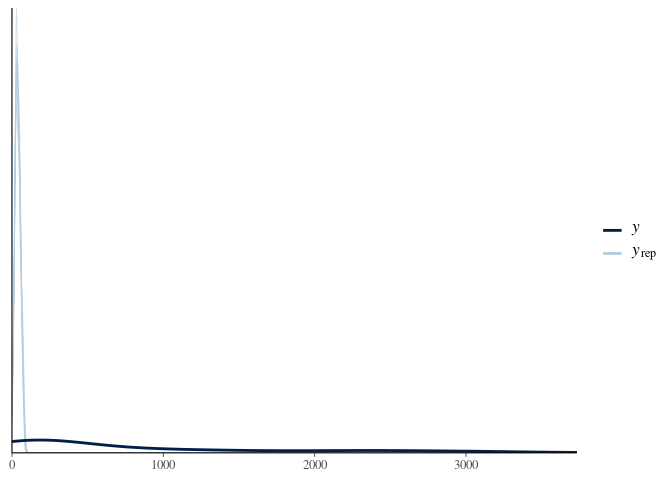
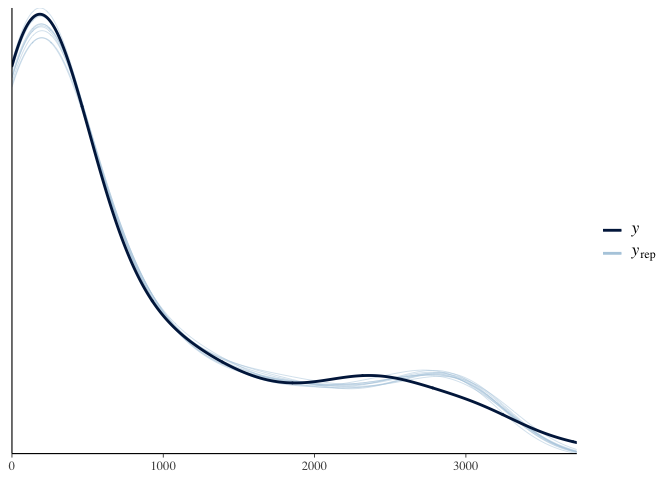
ensure vector of point estimates gets named

diff --git a/README.md b/README.md
@@ -24,10 +24,8 @@ devtools::install_github("epiforecasts/idbrms")
 
 ## Example
 
-  - Load `idbrms`, `brms`, `data.table` (used for manipulating data),
-    and `ggplot2` for visualisation.
-
-<!-- end list -->
+- Load `idbrms`, `brms`, `data.table` (used for manipulating data), and
+  `ggplot2` for visualisation.
 
 ``` r
 library(idbrms)
@@ -36,15 +34,13 @@ library(data.table)
 library(ggplot2)
 ```
 
-  - Define simulated data containing cases of some infectious disease
-    over time in a single region (with an initial growth of 20% a day
-    followed by a decline of 10% a day). We then assume that deaths are
-    a convolution of cases using a log normal distribution with a log
-    mean of 1.6 (standard deviation 0.2) and a log standard deviation of
-    0.8 (standard deviation 0.2), and are then scaled by a fraction
-    (here 0.4 (standard deviation 0.025)).
-
-<!-- end list -->
+- Define simulated data containing cases of some infectious disease over
+  time in a single region (with an initial growth of 20% a day followed
+  by a decline of 10% a day). We then assume that deaths are a
+  convolution of cases using a log normal distribution with a log mean
+  of 1.6 (standard deviation 0.2) and a log standard deviation of 0.8
+  (standard deviation 0.2), and are then scaled by a fraction (here 0.4
+  (standard deviation 0.025)).
 
 ``` r
 # apply a convolution of a log normal to a vector of observations
@@ -71,9 +67,7 @@ obs <- obs[, deaths := round(deaths * rnorm(.N, 0.25, 0.025), 0)]
 obs <- obs[deaths < 0, deaths := 0]
 ```
 
-  - Visual simulated data (columns are cases and points are deaths).
-
-<!-- end list -->
+- Visual simulated data (columns are cases and points are deaths).
 
 ``` r
 ggplot(obs) +
@@ -85,9 +79,7 @@ ggplot(obs) +
 
 <img src="man/figures/README-unnamed-chunk-3-1.png" width="100%" />
 
-  - Prepare the data to be fit using the convolution model.
-
-<!-- end list -->
+- Prepare the data to be fit using the convolution model.
 
 ``` r
 prep_obs <- prepare(obs, model = "convolution", location = "region",
@@ -106,19 +98,15 @@ head(prep_obs, 10)
 #> 10: Glastonbury 2020-10-24    9    10        1      1   10     365        44
 ```
 
-  - Fit the model assuming a Poisson observation model (*It is important
-    to use an identity link here as `idbrm` provides its own link by
-    default*).
-
-<!-- end list -->
+- Fit the model assuming a Poisson observation model (*It is important
+  to use an identity link here as `idbrm` provides its own link by
+  default*).
 
 ``` r
 fit <- idbrm(data = prep_obs, family = poisson(link = "identity"))
 ```
 
-  - Summarise fit.
-
-<!-- end list -->
+- Summarise fit.
 
 ``` r
 summary(fit)
@@ -129,54 +117,55 @@ summary(fit)
 #>          cmean ~ 1
 #>          lcsd ~ 1
 #>    Data: data (Number of observations: 86) 
-#> Samples: 4 chains, each with iter = 2000; warmup = 1000; thin = 1;
-#>          total post-warmup samples = 4000
+#>   Draws: 4 chains, each with iter = 2000; warmup = 1000; thin = 1;
+#>          total post-warmup draws = 4000
 #> 
 #> Population-Level Effects: 
 #>                 Estimate Est.Error l-95% CI u-95% CI Rhat Bulk_ESS Tail_ESS
-#> scale_Intercept    -1.16      0.00    -1.17    -1.15 1.00     2400     2336
-#> cmean_Intercept     1.52      0.03     1.46     1.58 1.00     1216     1190
-#> lcsd_Intercept      0.11      0.05     0.02     0.21 1.01     1199     1080
+#> scale_Intercept    -1.16      0.00    -1.17    -1.15 1.00     2338     2282
+#> cmean_Intercept     1.52      0.03     1.46     1.58 1.00     1338     1615
+#> lcsd_Intercept      0.11      0.05     0.02     0.21 1.00     1343     1622
 #> 
-#> Samples were drawn using sampling(NUTS). For each parameter, Bulk_ESS
+#> Draws were sampled using sampling(NUTS). For each parameter, Bulk_ESS
 #> and Tail_ESS are effective sample size measures, and Rhat is the potential
 #> scale reduction factor on split chains (at convergence, Rhat = 1).
 ```
 
-  - Explore estimated effect sizes (we approximately should recover
-    those used for simulation).
-
-<!-- end list -->
+- Explore estimated effect sizes (we approximately should recover those
+  used for simulation).
 
 ``` r
 exp(posterior_summary(fit, "scale_Intercept")) / 
   (1 + exp(posterior_summary(fit, "scale_Intercept")))
-#>                    Estimate Est.Error      Q2.5     Q97.5
-#> b_scale_Intercept 0.2380844 0.5012257 0.2363043 0.2398308
+#> Warning: Argument 'pars' is deprecated. Please use 'variable' instead.
+
+#> Warning: Argument 'pars' is deprecated. Please use 'variable' instead.
+#>                    Estimate Est.Error      Q2.5    Q97.5
+#> b_scale_Intercept 0.2380622 0.5012091 0.2363883 0.239789
 posterior_summary(fit, "cmean_Intercept")
-#>                   Estimate  Est.Error     Q2.5   Q97.5
-#> b_cmean_Intercept 1.516847 0.03103077 1.462779 1.58491
+#> Warning: Argument 'pars' is deprecated. Please use 'variable' instead.
+#>                   Estimate  Est.Error     Q2.5    Q97.5
+#> b_cmean_Intercept 1.517401 0.03095378 1.463574 1.581733
 exp(posterior_summary(fit, "lcsd_Intercept"))
-#>                  Estimate Est.Error     Q2.5   Q97.5
-#> b_lcsd_Intercept  1.11891  1.048587 1.020392 1.23047
+#> Warning: Argument 'pars' is deprecated. Please use 'variable' instead.
+#>                  Estimate Est.Error     Q2.5    Q97.5
+#> b_lcsd_Intercept 1.120378  1.048099 1.023345 1.228248
 ```
 
-  - Expose model stan functions.
-
-<!-- end list -->
+- Expose model stan functions.
 
 ``` r
 expose_functions(fit)
 ```
 
-  - Test central estimates returns something sensible compared to
-    observed data.
-
-<!-- end list -->
+- Test central estimates returns something sensible compared to observed
+  data.
 
 ``` r
 n_obs <- length(prep_obs$primary)
-pt_ests <-  summary(fit)$fixed[, 1]
+fixed <- summary(fit)$fixed
+pt_ests <- fixed[, 1]
+names(pt_ests) <- rownames(fixed)
 p_primary <- with(prep_obs, idbrms_convolve(primary, rep(pt_ests["scale_Intercept"], n_obs), 
                                             rep(pt_ests["cmean_Intercept"], n_obs),
                                             rep(pt_ests["lcsd_Intercept"], n_obs), 
@@ -190,23 +179,19 @@ ggplot(prep_obs) +
 
 <img src="man/figures/README-unnamed-chunk-5-1.png" width="100%" />
 
-  - Posterior predictive check. Runs without error but looks unlikely to
-    be correct given check above.
-
-<!-- end list -->
+- Posterior predictive check. Runs without error but looks unlikely to
+  be correct given check above.
 
 ``` r
 pp_check(fit)
-#> Using 10 posterior samples for ppc type 'dens_overlay' by default.
+#> Using 10 posterior draws for ppc type 'dens_overlay' by default.
 ```
 
 <img src="man/figures/README-pred-check-1.png" width="100%" />
 
-  - Plot conditional effects (fails with due to mismatched vector sizes
-    in the stan dot product + there are no variables in this model so
-    should always fail).
-
-<!-- end list -->
+- Plot conditional effects (fails with due to mismatched vector sizes in
+  the stan dot product + there are no variables in this model so should
+  always fail).
 
 ``` r
 plot(conditional_effects(fit), ask = FALSE)
